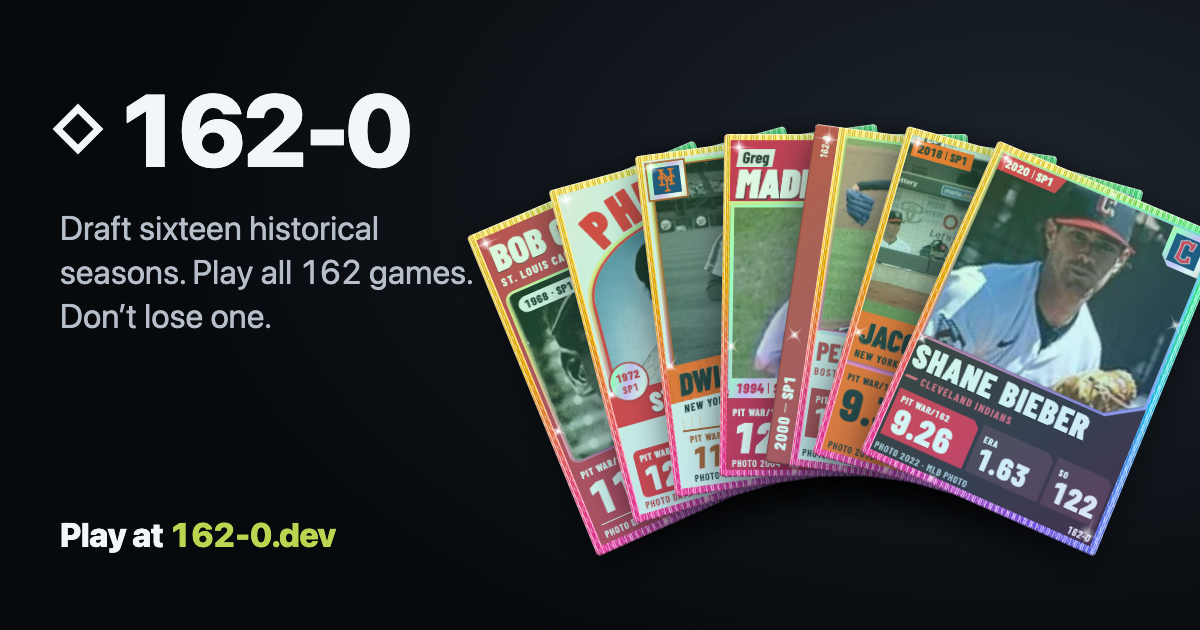
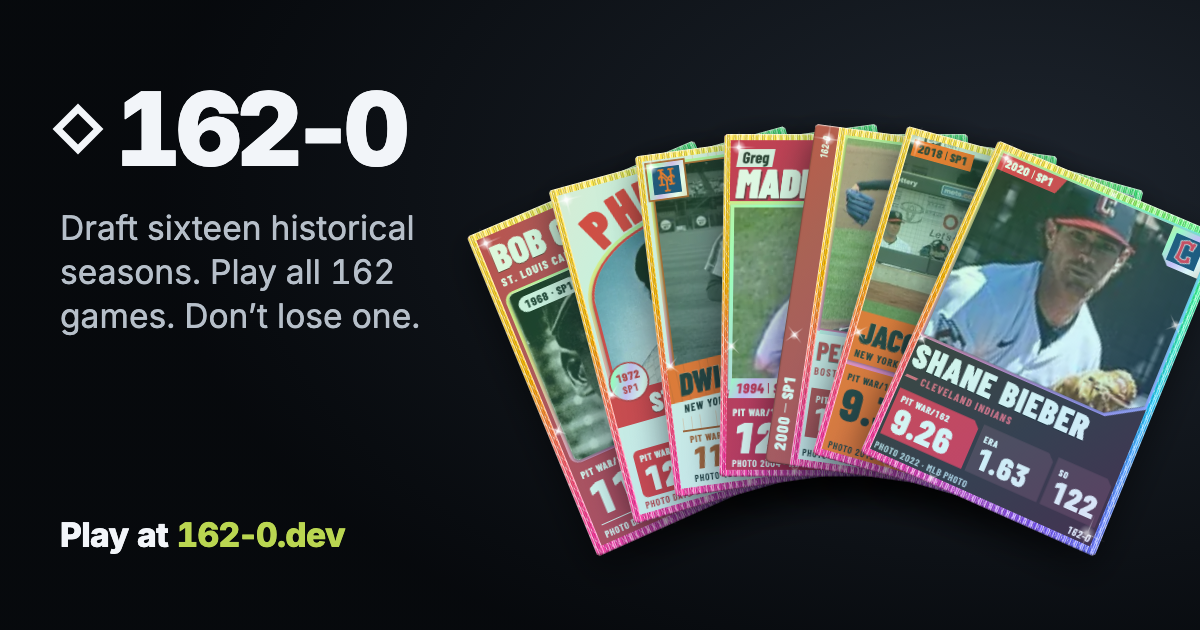
fix: Set the site preview in bundled Inter
Browser Run's Linux Chrome has no system UI font, so the Worker's daily
capture fell back to DejaVu Sans. The preview now uses bundled Inter,
with the wordmark hyphen pulled in to match its usual shape.

diff --git a/src/lib/share/SiteOpenGraph.svelte b/src/lib/share/SiteOpenGraph.svelte
@@ -15,10 +15,10 @@
 
 <section class="og" data-site-og aria-label="162-0 link preview">
 	<div class="copy">
-		<strong class="wordmark"><i aria-hidden="true"></i>162-0</strong>
+		<strong class="wordmark"><i aria-hidden="true"></i><span>162<span class="hyphen">-</span>0</span></strong>
 		<p>Draft sixteen historical seasons. Play all 162 games. Don’t lose one.</p>
 		{#if date}<span class="daily">Daily <b>{dailyLabel(date)}</b></span>{/if}
-		<span class="cta">Play at <em>162-0.dev</em></span>
+		<span class="cta">Play at <em>162<span class="hyphen">-</span>0.dev</em></span>
 	</div>
 	<div class="fan" aria-hidden="true">
 		{#each fan as card, index (card.seasonId)}
@@ -30,8 +30,9 @@
 </section>
 
 <style>
-	/* Every length is a share of the frame's width, so any render size matches the 1200×630 export. */
-	.og { position:relative; box-sizing:border-box; width:100%; aspect-ratio:1200/630; container-type:inline-size; overflow:hidden; background:radial-gradient(120% 140% at 85% 30%, oklch(26% .02 255), oklch(14% .009 255) 60%); color:oklch(97% .006 255); font-family:-apple-system,BlinkMacSystemFont,'Segoe UI',system-ui,sans-serif; line-height:1; isolation:isolate; }
+	/* Every length is a share of the frame's width, so any render size matches the 1200×630 export. Inter is
+	   bundled so a Mac capture and the Worker's Linux Browser Run capture set the same type. */
+	.og { position:relative; box-sizing:border-box; width:100%; aspect-ratio:1200/630; container-type:inline-size; overflow:hidden; background:radial-gradient(120% 140% at 85% 30%, oklch(26% .02 255), oklch(14% .009 255) 60%); color:oklch(97% .006 255); font-family:'Inter Variable',-apple-system,BlinkMacSystemFont,'Segoe UI',system-ui,sans-serif; line-height:1; isolation:isolate; }
 	.copy { position:absolute; z-index:2; left:5cqw; top:6.5cqw; bottom:6.5cqw; width:38cqw; display:flex; flex-direction:column; align-items:flex-start; gap:2.2cqw; }
 	.wordmark { display:inline-flex; align-items:center; gap:1.6cqw; font-size:8.5cqw; font-weight:850; letter-spacing:-.05em; }
 	.wordmark i { display:block; width:3cqw; height:3cqw; border:.6cqw solid currentColor; transform:rotate(45deg); }
@@ -39,6 +40,8 @@
 	/* The daily run's stamp, as on results and share images. */
 	.daily { padding:.8cqw 1.5cqw; border:.3cqw solid oklch(83% .16 120); color:oklch(83% .16 120); font:italic 800 3.2cqw / 1 'Barlow Condensed', sans-serif; letter-spacing:.06em; text-transform:uppercase; white-space:nowrap; transform:rotate(-3deg); transform-origin:left center; }
 	.daily b { color:oklch(97% .006 255); font-weight:800; }
+	/* Inter's hyphen is .14em wider than the system font's; pulling it in keeps the wordmark's familiar shape. */
+	.hyphen { margin-inline:-.07em; }
 	.cta { margin-top:auto; white-space:nowrap; font-size:2.8cqw; font-weight:800; letter-spacing:-.02em; }
 	.cta em { font-style:normal; color:oklch(83% .16 120); }
 	/* Seven cards fanned from a pivot below the frame and tipped back in perspective. */

diff --git a/src/routes/og-image/+page.svelte b/src/routes/og-image/+page.svelte
@@ -1,4 +1,5 @@
 <script lang="ts">
+	import '@fontsource-variable/inter';
 	import { onMount, tick } from 'svelte';
 	import { createCardViewModel, type CardViewModel } from '#lib/cards/view-model.ts';
 	import { loadManifest, loadShowcase } from '#lib/game/data.ts';
@@ -19,8 +20,9 @@
 		const manifest = await loadManifest();
 		const [showcase, media, rankings] = await Promise.all([loadShowcase(manifest), loadMedia(), loadRankings(manifest.dataVersion).catch(() => null)]);
 		cards = showcase.map(({ profile, slot }) => createCardViewModel({ profile, slot, manifest, media, mediaStatus: 'ready', rankings }));
-		await document.fonts.ready;
+		// Fonts load once the rendered frame uses them.
 		await tick();
+		await document.fonts.ready;
 		await photosLoaded();
 		ready = true;
 	});
